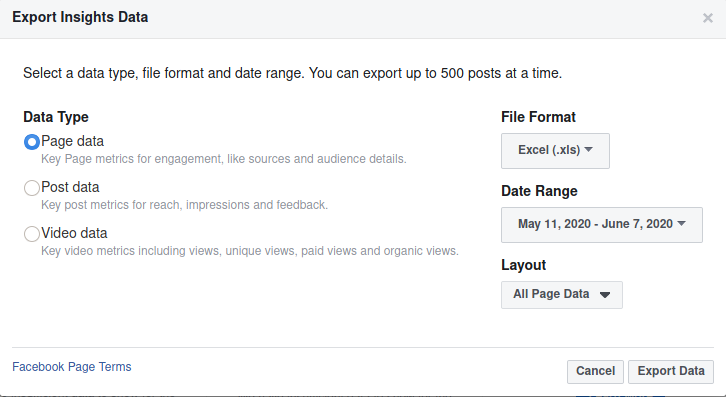
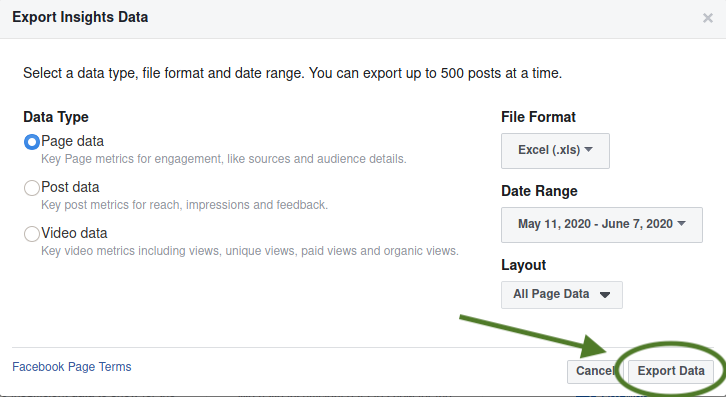
finish modal with guide

Changed region(s): [[0.6364, 0.7859, 1.0, 1.0]]

diff --git a/frontend/src/Forecast.tsx b/frontend/src/Forecast.tsx
@@ -11,6 +11,9 @@ import { useMachine } from "@xstate/react";
 import { Machine } from "xstate";
 import { theme } from "./theme";
 import { ResultView } from "./ResultView";
+import fbTopMenu from "./TopMenuFB.png";
+import fbInsights from "./InsightsPage.png";
+import fbFinalDialog from "./FinalDialog.png";
 
 const uploadMachine = Machine({
   id: "upload",
@@ -142,9 +145,52 @@ const Forecast = () => {
               <Modal
                 id="fb-guide"
                 content={
-                  <button onClick={closeModal}>
-                    <X />
-                  </button>
+                  <div
+                    style={{
+                      display: "flex",
+                      flexDirection: "column",
+                      alignItems: "center",
+                      justifyContent: "center",
+                    }}
+                  >
+                    <div style={{ width: "100%", display: "flex", justifyContent: "flex-end" }}>
+                      <button className="button button-clear" onClick={closeModal}>
+                        <X />
+                      </button>
+                    </div>
+                    <h1> How do I do this?</h1>
+                    <p style={{ width: "100%" }}>
+                      Don't worry, we've got you covered! Head over to your Facebook page and click
+                      on the <span style={{ fontWeight: "bold" }}>Insights</span> tab:
+                    </p>
+                    <img
+                      style={{ marginBottom: 16 }}
+                      src={fbTopMenu}
+                      alt="facebook page top menu"
+                    />
+                    <p style={{ width: "100%" }}>
+                      You should see a button which says Export Data in the top right:
+                    </p>
+                    <img
+                      style={{ marginBottom: 16 }}
+                      src={fbInsights}
+                      alt="facebook page insights section"
+                    />
+                    <p style={{ width: "100%" }}>
+                      On the dialog that appears, select <code>.xls</code> as the file format and a
+                      date range that matches the date range of the rest of your data. You don't
+                      need to change the other settings, just click Export Data - after a few
+                      seconds you'll get a file that you can upload to Futurist.
+                    </p>
+                    <img
+                      style={{ marginBottom: 16 }}
+                      src={fbFinalDialog}
+                      alt="facebook page export data dialog"
+                    />
+                    <p style={{ width: "100%" }}>
+                      That's it! You can send your data to Futurist now.
+                    </p>
+                  </div>
                 }
                 isOpen={isModalOpen}
                 transition={ModalTransition.BOTTOM_UP}

diff --git a/frontend/src/ResultView.tsx b/frontend/src/ResultView.tsx
@@ -123,7 +123,7 @@ const ResultView = ({ data }: ResultViewProps) => {
         </blockquote>
       )}
       <Plot {...result.plot} />
-      {(result.dependencies.length > 0 || result.source === "gus") && (
+      {result.dependencies.length > 0 && result.source !== "gus" && (
         <Fragment>
           <h3>Dependencies:</h3>
           <ul>
